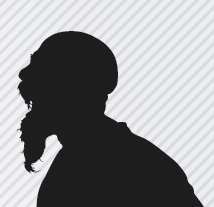
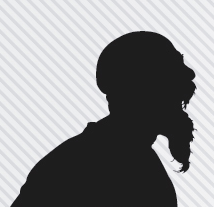
Cutscenes now highlight the current speaker.

diff --git a/Phobia/Assets/Scripts/CutsceneScripts/CutsceneTextScript.cs b/Phobia/Assets/Scripts/CutsceneScripts/CutsceneTextScript.cs
@@ -6,6 +6,8 @@ public class CutsceneTextScript : MonoBehaviour {
 	
 	public Text textBoxString;
 	public TextAsset TextFile;
+	public Image portraitLImage;
+	public Image portraitRImage;
 	public float textTypingDelay;
 
 	private string[] linesInFile;
@@ -15,6 +17,9 @@ public class CutsceneTextScript : MonoBehaviour {
 
 	void Start() {
 		textBoxString = GameObject.FindGameObjectWithTag("SPreLevDialogueText").GetComponentInChildren<Text>();
+		//portraitLImage = GameObject.FindGameObjectWithTag("portraitLImage").GetComponentInChildren<Image>();
+		//portraitRImage = GameObject.FindGameObjectWithTag("portraitRImage").GetComponentInChildren<Image>();
+
 		linesInFile = TextFile.text.Split('\n');
 		lineNumber = 0;
 
@@ -28,14 +33,9 @@ public class CutsceneTextScript : MonoBehaviour {
 	void Update() {
 		if (Input.GetMouseButtonDown(0)) {
 			if (lineNumber < linesInFile.Length) {
+				// Stop current Coroutine for typing.
 				StopCoroutine("TypeOutText");
 				scriptLine = linesInFile[lineNumber].Split(':');
-				if (scriptLine[0] == "Ndoto") {
-					textBoxString.color = Color.red;
-				} else {
-					textBoxString.color = Color.black;
-				}
-				lineText = scriptLine[1];
 				StartCoroutine("TypeOutText");
 				lineNumber++;
 			}
@@ -44,6 +44,18 @@ public class CutsceneTextScript : MonoBehaviour {
 
 	IEnumerator TypeOutText() {
 		textBoxString.text = "";
+
+		if (scriptLine[0] == "Ndoto") {
+			textBoxString.color = Color.red;
+			portraitLImage.color = Color.white;
+			portraitRImage.color = Color.gray;
+		} else if (scriptLine[0] == "Client"){
+			textBoxString.color = Color.black;
+			portraitLImage.color = Color.gray;
+			portraitRImage.color = Color.white;
+		}
+		lineText = scriptLine[1];
+
 		foreach (char c in lineText.ToCharArray()) {
 			textBoxString.text += c;
 			yield return new WaitForSeconds(textTypingDelay);
